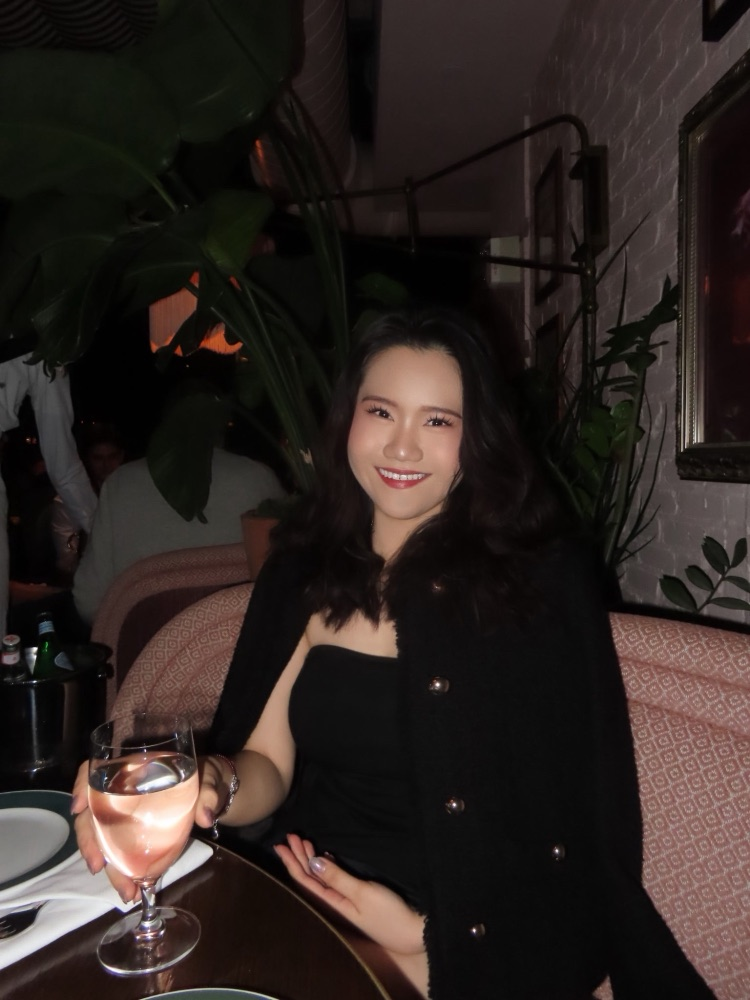
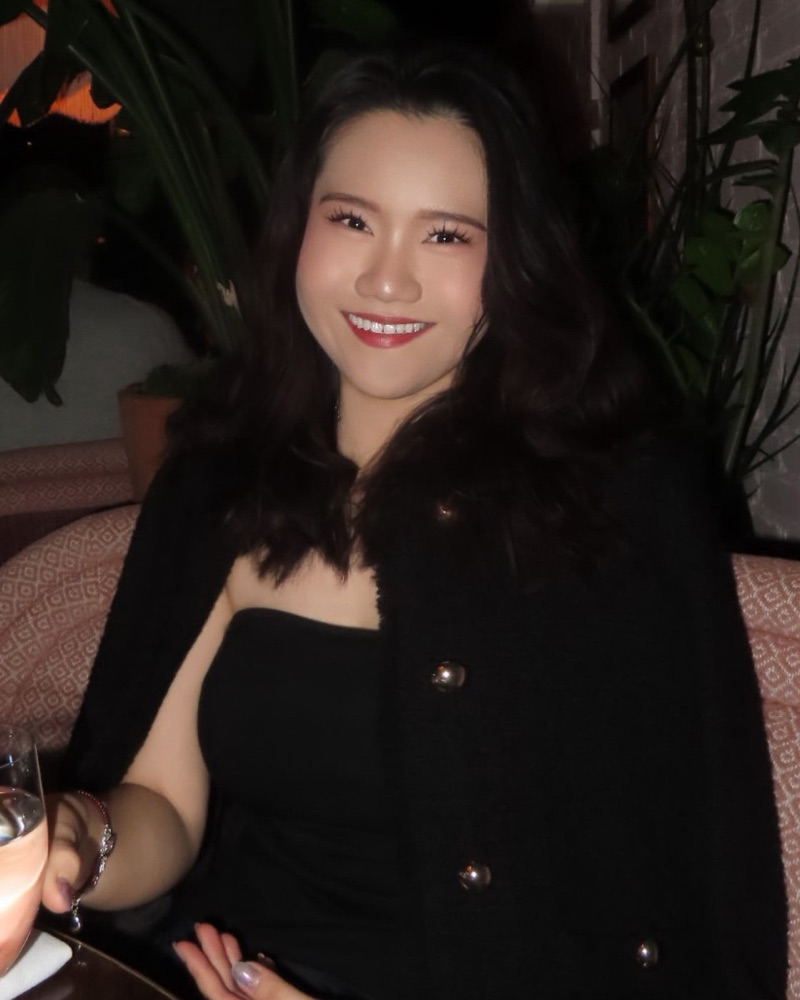
Tighter photo crop

diff --git a/about.html b/about.html
@@ -8,7 +8,7 @@
 <link rel="preconnect" href="https://fonts.googleapis.com">
 <link rel="preconnect" href="https://fonts.gstatic.com" crossorigin>
 <link href="https://fonts.googleapis.com/css2?family=Fraunces:ital,opsz,wght@0,9..144,400;0,9..144,500;0,9..144,600;1,9..144,400&family=Inter:wght@400;500;600&display=swap" rel="stylesheet">
-<link rel="stylesheet" href="style.css?v=4">
+<link rel="stylesheet" href="style.css?v=5">
 </head>
 <body>
 <header class="nav">
@@ -31,7 +31,7 @@
 </section>
 
 <section class="two-col">
-  <div><h2>Background</h2><img class="about-photo" src="jocelyn.jpg" alt="Jocelyn Wu" width="750" height="1000" loading="lazy"></div>
+  <div><h2>Background</h2><img class="about-photo" src="jocelyn.jpg?v=2" alt="Jocelyn Wu" width="800" height="1000" loading="lazy"></div>
   <div>
     <p>I'm Jocelyn Wu, a Dean's List student at Babson College studying Computational &amp; Mathematical Finance, cross-registered at Wellesley College for mathematics. I've worked on a global markets desk, done due diligence on international real estate deals, built internal tools for a nonprofit, and co-founded a neon-sign business with friends. Outside of work, I manage my own portfolio focused on semiconductors and the <a href="investing.html">AI supply chain</a>.</p>
     <br>

diff --git a/index.html b/index.html
@@ -8,7 +8,7 @@
 <link rel="preconnect" href="https://fonts.googleapis.com">
 <link rel="preconnect" href="https://fonts.gstatic.com" crossorigin>
 <link href="https://fonts.googleapis.com/css2?family=Fraunces:ital,opsz,wght@0,9..144,400;0,9..144,500;0,9..144,600;1,9..144,400&family=Inter:wght@400;500;600&display=swap" rel="stylesheet">
-<link rel="stylesheet" href="style.css?v=4">
+<link rel="stylesheet" href="style.css?v=5">
 </head>
 <body>
 <header class="nav">
@@ -34,7 +34,7 @@
     <a class="btn" href="investing.html">How I invest</a>
   </div>
   </div>
-  <figure class="portrait reveal d2"><img src="jocelyn.jpg" alt="Portrait of Jocelyn Wu" width="750" height="1000"></figure>
+  <figure class="portrait reveal d2"><img src="jocelyn.jpg?v=2" alt="Portrait of Jocelyn Wu" width="800" height="1000"></figure>
 </section>
 
 <section>

diff --git a/contact.html b/contact.html
@@ -8,7 +8,7 @@
 <link rel="preconnect" href="https://fonts.googleapis.com">
 <link rel="preconnect" href="https://fonts.gstatic.com" crossorigin>
 <link href="https://fonts.googleapis.com/css2?family=Fraunces:ital,opsz,wght@0,9..144,400;0,9..144,500;0,9..144,600;1,9..144,400&family=Inter:wght@400;500;600&display=swap" rel="stylesheet">
-<link rel="stylesheet" href="style.css?v=4">
+<link rel="stylesheet" href="style.css?v=5">
 </head>
 <body>
 <header class="nav">

diff --git a/investing.html b/investing.html
@@ -8,7 +8,7 @@
 <link rel="preconnect" href="https://fonts.googleapis.com">
 <link rel="preconnect" href="https://fonts.gstatic.com" crossorigin>
 <link href="https://fonts.googleapis.com/css2?family=Fraunces:ital,opsz,wght@0,9..144,400;0,9..144,500;0,9..144,600;1,9..144,400&family=Inter:wght@400;500;600&display=swap" rel="stylesheet">
-<link rel="stylesheet" href="style.css?v=4">
+<link rel="stylesheet" href="style.css?v=5">
 </head>
 <body>
 <header class="nav">

diff --git a/projects.html b/projects.html
@@ -8,7 +8,7 @@
 <link rel="preconnect" href="https://fonts.googleapis.com">
 <link rel="preconnect" href="https://fonts.gstatic.com" crossorigin>
 <link href="https://fonts.googleapis.com/css2?family=Fraunces:ital,opsz,wght@0,9..144,400;0,9..144,500;0,9..144,600;1,9..144,400&family=Inter:wght@400;500;600&display=swap" rel="stylesheet">
-<link rel="stylesheet" href="style.css?v=4">
+<link rel="stylesheet" href="style.css?v=5">
 </head>
 <body>
 <header class="nav">

diff --git a/style.css b/style.css
@@ -202,7 +202,7 @@ footer { border-top: 1px solid var(--line); padding: 28px 0; color: var(--muted)
 }
 .portrait img, .about-photo {
   display: block; width: 100%; height: auto; aspect-ratio: 4 / 5; object-fit: cover;
-  object-position: 55% 40%; border-radius: 22px;
+  object-position: 50% 30%; border-radius: 22px;
 }
 .about-photo { margin-top: 20px; max-width: 280px; }
 @media (max-width: 760px) {
